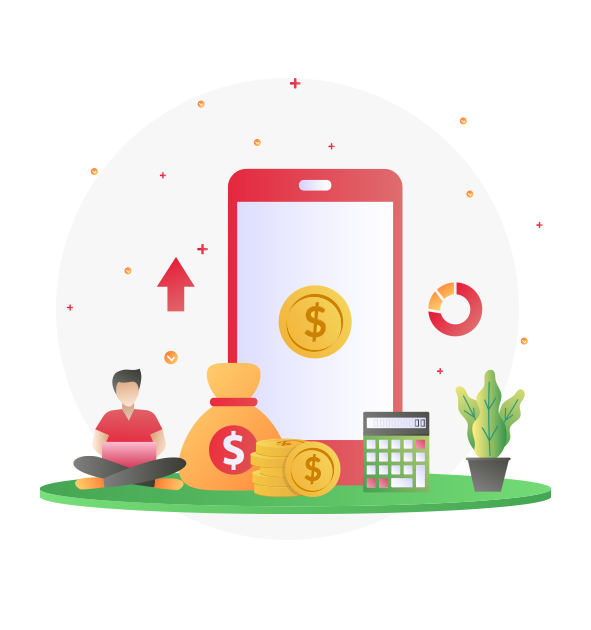
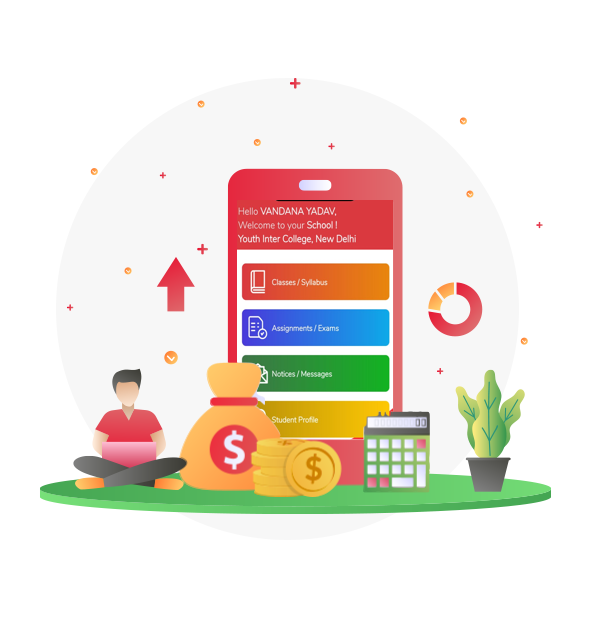
add mobile app description in school mgmt

Changed region(s): [[0.3959, 0.3016, 0.731, 0.7841], [0.3655, 0.6635, 0.4264, 0.754]]

diff --git a/Localization/schoolManagementSystem.js b/Localization/schoolManagementSystem.js
@@ -40,25 +40,25 @@ module.exports = {
 	bannerTextPart1 : 'School',
 	bannerTextPart2 : 'Management System',
 	bannerSideHead : 'School Data Management Solution',
-	bannerSidePara : "This is a Web Application, designed to maintain the complete records of various important data in the School; including Student Report, Fee Collection Report, Defaulter Report, Fee Deposit Report, Deleted Receipt Report, Expense Voucher Report, Deleted Expense Voucher Report, Salary Report, DayBook Report, Employee Report and Employee Attendance Report.",
+	bannerSidePara : "This is a Mobile Application with web based admin panel, designed to support Online Classes and School Management.It helps to maintain the complete records of various important data in the School; including Student Report, Fee Collection Report, Defaulter Report, Fee Deposit Report, Deleted Receipt Report, Expense Voucher Report, Deleted Expense Voucher Report, Salary Report, DayBook Report, Employee Report and Employee Attendance Report.",
 	feature1Img : 'images/sms/1.png',
 	feature2Img : 'images/sms/2.png',
 	feature3Img : 'images/sms/3.png',
 	feature4Img : 'images/sms/4.png',
 	feature5Img : 'images/sms/5.png',
-	feature1HeadPart1 : 'Fee',
-	feature1HeadPart2 : 'Management',
+	feature1HeadPart1 : 'Mobile',
+	feature1HeadPart2 : 'App',
 	feature2HeadPart1 : 'Customized',
 	feature2HeadPart2 : 'SMS Alerts',
-	feature3HeadPart1 : 'Expense ',
-	feature3HeadPart2 : 'Voucher Management',
+	feature3HeadPart1 : 'Expense/Fee',
+	feature3HeadPart2 : 'Management',
 	feature4HeadPart1 : 'Staff',
 	feature4HeadPart2 : 'Attendance/Payroll Management',
 	feature5HeadPart1 : 'Student ',
 	feature5HeadPart2 : 'Register',
-	feature1Para : 'Keep complete record of fee submitted by students. Define your rules for fee submission, Enter the fee amount class-wise and mention the overhead charges on exceeding the date limits and the software ensures the correct amount is displayed as per the dates decided in the rules. Print the receipt with all details in one click.',
+	feature1Para : 'Our easy to use mobile app not only provides features to conduct online classes but it also have got full fledged Fee submission, Quiz/Exam conduction and attendance report modules. With simple and self explanatory User Interface of the app, we make it more convenient for parent and child to take the most benefit out of it, and with the Highly customizable admin panel, we provide controls to each and every bits of the app to the School Management.',
 	feature2Para : 'Got an information to circulate? Send it to all registered students in one click. Its easy with this software. It also have got feature to send SMS to a specific student or to a specific group only.  And yes, we are open to adding more features as per requirements.',
-	feature3Para : 'Keep adding various expense details with complete descriptions of Bills and Vouchers with the software. You get the options to view the expenses incurred in a given period of time. Edit or delete the records if needed. Feel free to ask us for any feature in the segment that you think the system at your school requires.',
+	feature3Para : 'Keep complete record of fee submitted by students. Define your rules for fee submission, Enter the fee amount class-wise and mention the overhead charges on exceeding the date limits and the software ensures the correct amount is displayed as per the dates decided in the rules. Print the receipt with all details in one click.Keep adding various expense details with complete descriptions of Bills and Vouchers with the software. You get the options to view the expenses incurred in a given period of time. Edit or delete the records if needed. Feel free to ask us for any feature in the segment that you think the system at your school requires.',
 	feature4Para : 'The software comes with multiple options to simply and efficiently manage the attendance and payroll of the employees at your organization. It have got features to manage the salary and loans granted on the name of given staff. View/Print the compensation break-ups and salary reports in one click.',
 	feature5Para : 'Keep records of each and every student and search it out easily according to various parameters/filters when required. Software provide features to look into fee records of each student easily and calculate the dues most conveniently.Features available to View/Print the complete student record in one click.',
 	cardHeadPart1 : 'Exciting ',
